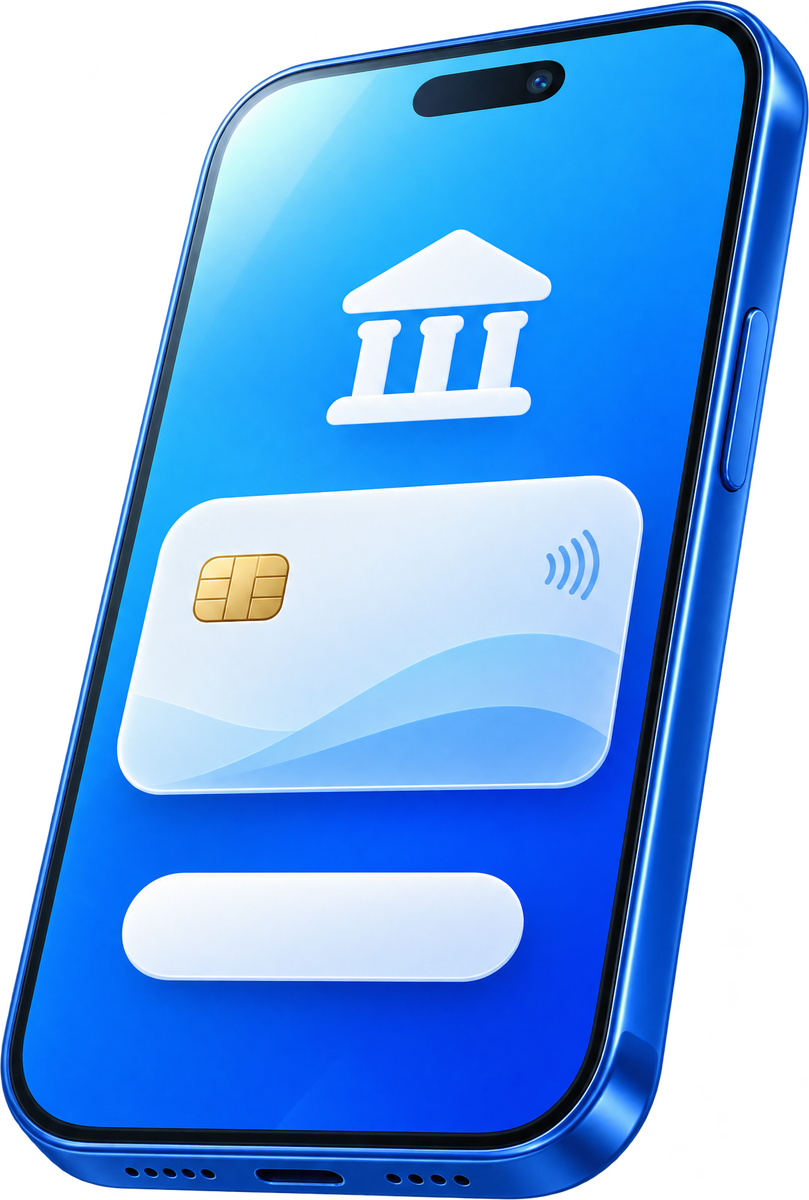
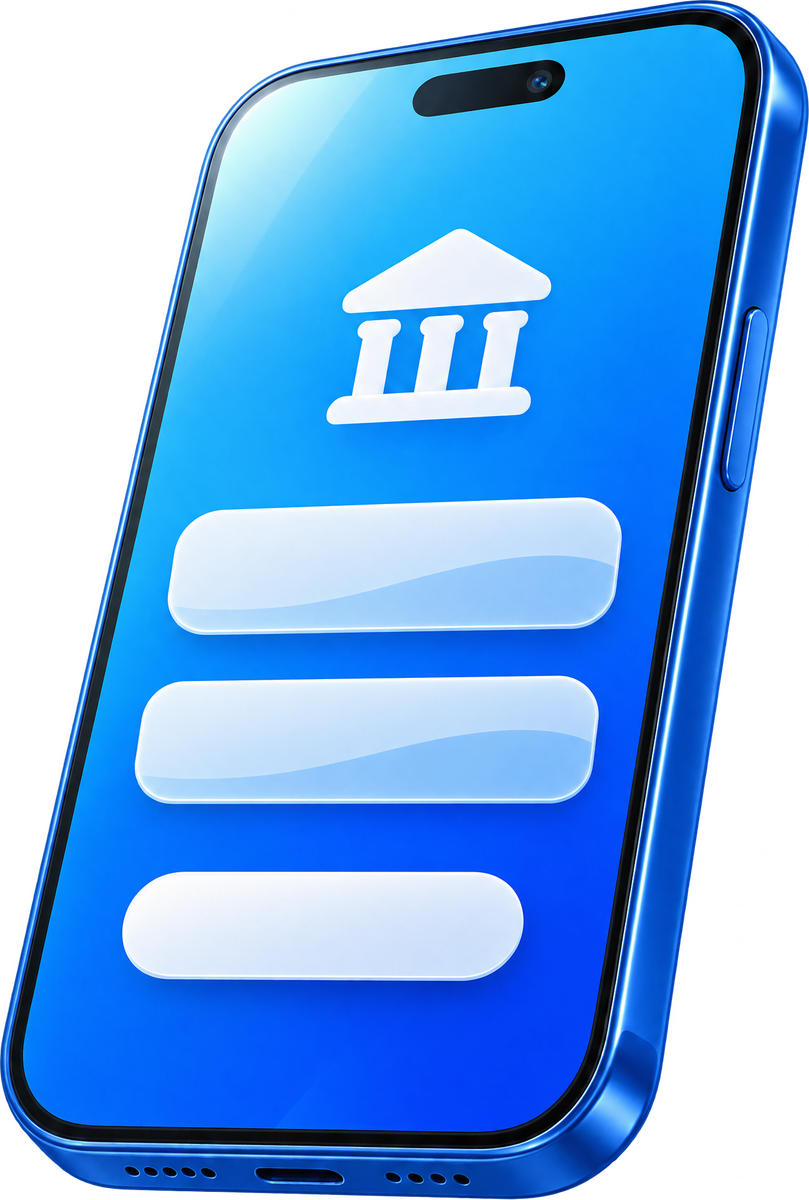
v7: 9.9 with a dot, remove legal line, phone without card
Claude-Session: https://claude.ai/code/session_01L7yiCouqfLKQsrxdRppMSL

diff --git a/film.html b/film.html
@@ -81,17 +81,16 @@ function bgGradient(g) { const gr = g.createLinearGradient(0, 0, 0, H); gr.addCo
 //      986 qısa nömrəsi ilə əlaqə saxla."   (on screen the profession is oil & mining workers, per client)
 const COPY = {
   audience: "Neft və mədənçıxarma işçilərinə",
-  rateTitle: "İllik faiz", rate: "9,9", rateSuffix: "%-dən",
+  rateTitle: "İllik faiz", rate: "9.9", rateSuffix: "%-dən",
   lockup: ["Zaminsiz", "kredit"],
   amountTitle: "Kredit məbləği", amount: "100 000", amountLabel: ["AZN-dək", "nağd kredit"],
   headline: ["Onlayn və ya filialda", "sürətli rəsmiləşdir"],
   grid: {
-    rate:   ["9,9%-dən", "illik faiz"],
+    rate:   ["9.9%-dən", "illik faiz"],
     online: ["Onlayn", "vtb.az saytından"],
     branch: ["Filialda", "ən yaxın ünvanda"],
     fast:   ["Sürətli", "rəsmiləşdirmə"],
   },
-  legal: "Kredit illik 9,9%-dən, 100 000 AZN-dək, zaminsiz verilir. Ətraflı şərtlər vtb.az saytında və 986 məlumat mərkəzində. [Yekun hüquqi mətn VTB tərəfindən təqdim olunacaq]",
 };
 const FOOTAGE_FRAMES = 150;   // footage/worker.mp4 → footage/frames/0001.jpg… (render.mjs extracts them)
 
@@ -505,13 +504,6 @@ function drawScene4(g, t) {
     }
   }
   // headline: line 1 on "onlayn və ya … filialda" (7.4 s), line 2 on "sürətli rəsmiləşdir" (9.1 s)
-  const lg = smooth(prog(t, 228, 14)) * (1 - accel(prog(t, EXP, 10)));
-  if (lg > 0) {
-    g.save(); g.globalAlpha = lg * 0.8; font(g, 24, 400, 0); g.fillStyle = "#fff"; g.textAlign = "center";
-    const lines = []; let line = "";
-    for (const w of COPY.legal.split(" ")) { const tt = line ? line + " " + w : w; if (g.measureText(tt).width > 940) { lines.push(line); line = w; } else line = tt; }
-    lines.push(line); lines.forEach((l, k) => g.fillText(l, 540, 1566 + k * 32)); g.restore();
-  }
   const hp = accel(prog(t, EXP, 12)) * 800;
   let hs = 86; font(g, hs, 800, -0.03); while (Math.max(...COPY.headline.map(l => g.measureText(l).width)) > 952) { hs -= 2; font(g, hs, 800, -0.03); }
   rise(g, COPY.headline[0], 64, 362 - hp, hs, "#fff", smooth(prog(t, 220, 14)), { weight: 800, track: -0.03 });

diff --git a/README.md b/README.md
@@ -19,9 +19,9 @@ Preview: `npx serve films/vtb-cash-loan` (or any static server), then open `/fil
 - **Footage:** the worker clip replaces the placeholder: full frame, then the top card, then the portrait tile.
 - **Colour:** the client gradient `#0250BF → #67C6FF` is the background throughout, with white tiles on it. The "Sürətli" tile grows into VTB navy `#04378F`, which is the first frame of the logo sting.
 - **Type:** VTB Group (Book, Demi Bold, Bold, Extra Bold) for all text and the 3D numerals, set about 1.5% tighter.
-- **3D objects:** glossy renders generated with Higgsfield (GPT Image 2.6, high 2K, transparent background), stored in `assets/objects/` as `pct`, `shield`, `coin`, `amount`, `phone`, `pin` and `bolt`. They animate in 2D with springs, float, tilt and breathe; the "100 000" drops in and the coin rolls in. They replace the hand-built three.js models, which are still in the code but no longer used.
+- **3D objects:** glossy renders generated with Higgsfield (GPT Image 2.6, high 2K, transparent background), stored in `assets/objects/` as `pct`, `shield`, `coin`, `amount`, `phone`, `pin` and `bolt`. The phone screen shows an application form, not a card, because VTB has no card product here. They animate in 2D with springs, float, tilt and breathe; the "100 000" drops in and the coin rolls in. They replace the hand-built three.js models, which are still in the code but no longer used.
 - **"Zaminsiz kredit"** sits on its own white tile like the other conditions.
-- **986 card removed:** its voiceover line ("Daha ətraflı məlumat üçün 986…") is dropped too. The legal line now sits under the grid.
+- **986 card removed:** its voiceover line ("Daha ətraflı məlumat üçün 986…") is dropped too. There is no legal line on screen; add one when VTB legal supplies the text.
 
 | Film time | Voiceover phrase | On screen |
 |---|---|---|
